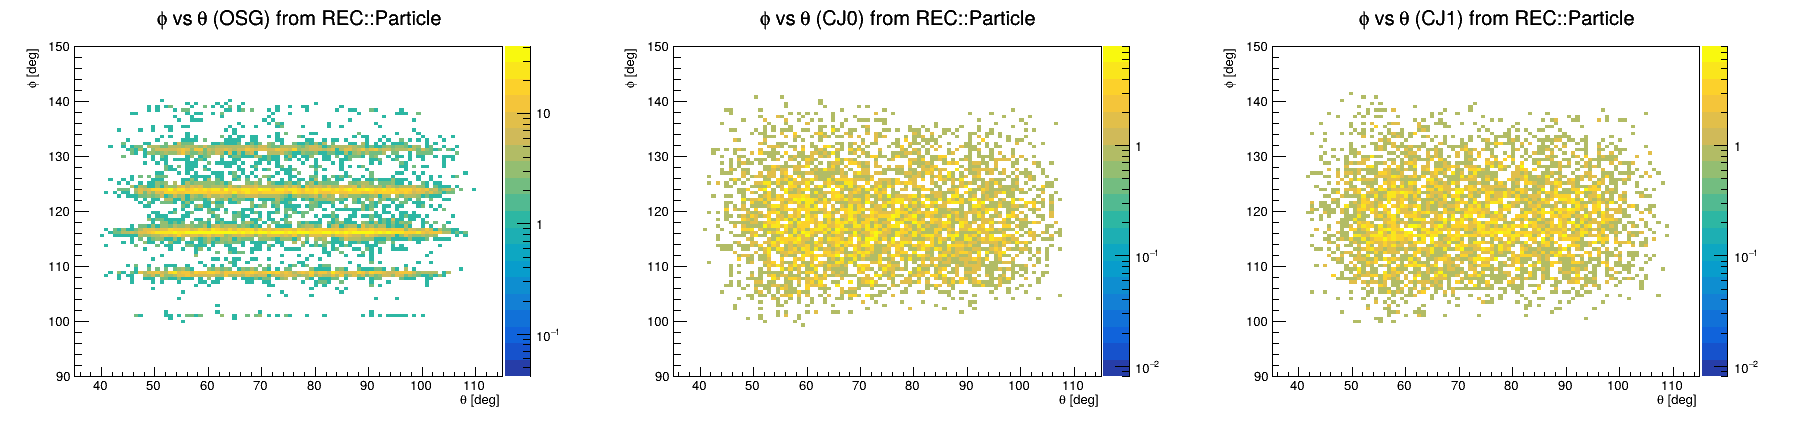
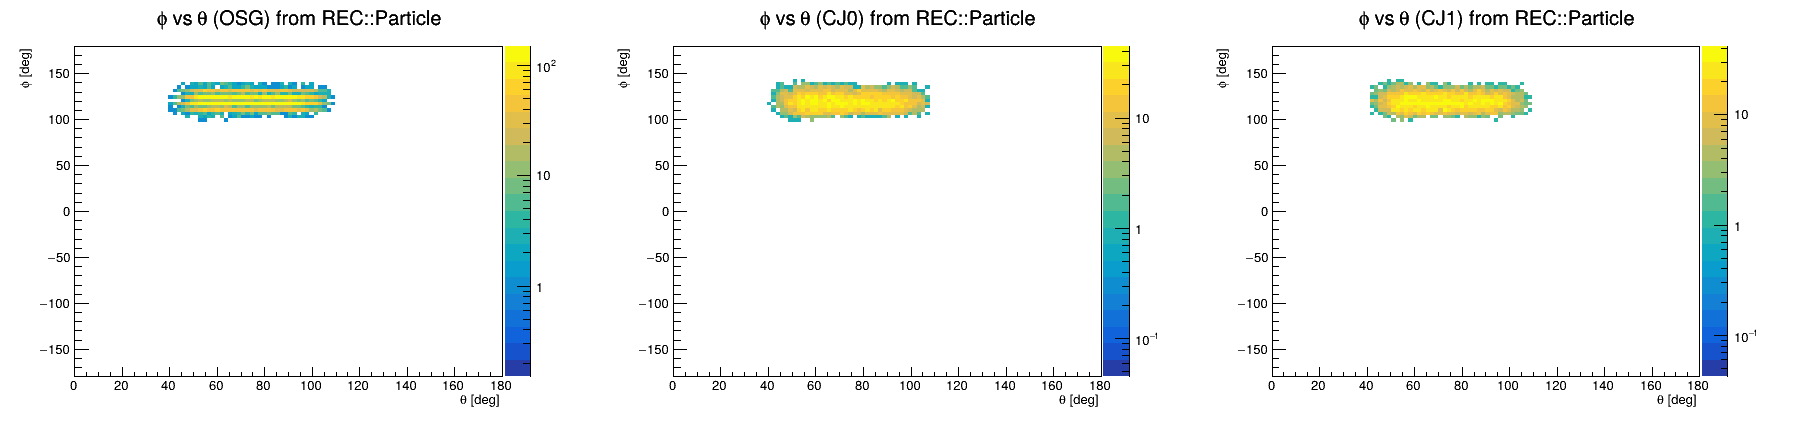
💄 Update limits of histograms

diff --git a/compare_cnd_versions.C b/compare_cnd_versions.C
@@ -93,27 +93,27 @@ struct Hists
 Hists book_hists(const char *tag)
 {
     Hists h;
-    h.hP = new TH1F(TString::Format("hP_%s", tag), TString::Format("Neutron p (%s) from REC::Particle;p [GeV];Counts", tag), 100, 0, 1.3);
-    h.hTheta = new TH1F(TString::Format("hTh_%s", tag), TString::Format("Neutron #theta (%s) from REC::Particle;#theta [deg];Counts", tag), 100, 35, 115);
-    h.hPhi = new TH1F(TString::Format("hPhi_%s", tag), TString::Format("Neutron #phi (%s) from REC::Particle;#phi [deg];Counts", tag), 100, 90, 150);
+    h.hP = new TH1F(TString::Format("hP_%s", tag), TString::Format("Neutron p (%s) from REC::Particle;p [GeV];Counts", tag), 100, 0, 5);
+    h.hTheta = new TH1F(TString::Format("hTh_%s", tag), TString::Format("Neutron #theta (%s) from REC::Particle;#theta [deg];Counts", tag), 100, 0, 180);
+    h.hPhi = new TH1F(TString::Format("hPhi_%s", tag), TString::Format("Neutron #phi (%s) from REC::Particle;#phi [deg];Counts", tag), 100, -180, 180);
 
     h.hEnergy_CND = new TH1F(TString::Format("hECND_%s", tag), TString::Format("Neutron E (%s) from CND-hit;E [GeV];Counts", tag), 100, 0, 12);
     h.hTheta_CND = new TH1F(TString::Format("hThCND_%s", tag), TString::Format("Neutron #theta (%s) from CND-hit;#theta [deg];Counts", tag), 100, 0, 180);
-    h.hPhi_CND = new TH1F(TString::Format("hPhiCND_%s", tag), TString::Format("Neutron #phi (%s) from CND-hit;#phi [deg];Counts", tag), 100, 90, 150);
+    h.hPhi_CND = new TH1F(TString::Format("hPhiCND_%s", tag), TString::Format("Neutron #phi (%s) from CND-hit;#phi [deg];Counts", tag), 100, -180, 180);
 
-    h.hDTheta_CND = new TH1F(TString::Format("hDThCND_%s", tag), "#Delta#theta(CND-hit - particle);#Delta#theta [deg];Counts", 100, -180, 180);
+    h.hDTheta_CND = new TH1F(TString::Format("hDThCND_%s", tag), "#Delta#theta(CND-hit - particle);#Delta#theta [deg];Counts", 100, -30, 30);
     h.hDPhi_CND = new TH1F(TString::Format("hDPhCND_%s", tag), "#Delta#phi(CND-hit - particle);#Delta#phi [deg];Counts", 100, -180, 180);
 
     h.hPTheta = new TH2F(TString::Format("hPTh_%s", tag), TString::Format("#theta vs p (%s) from REC::Particle;p [GeV];#theta [deg]", tag),
-                         100, 0, 1.3, 100, 35, 115);
+                         100, 0, 10, 100, 0, 180);
     h.hPPhi = new TH2F(TString::Format("hPPhi_%s", tag), TString::Format("#phi vs p (%s) from REC::Particle;p [GeV];#phi [deg]", tag),
-                       100, 0, 1.3, 100, 90, 150);
+                       100, 0, 10, 100, -180, 180);
     h.hThetaPhi = new TH2F(TString::Format("hThPhi_%s", tag), TString::Format("#phi vs #theta (%s) from REC::Particle;#theta [deg];#phi [deg]", tag),
-                           100, 35, 115, 100, 90, 150);
-
-    h.hPMC = new TH1F(TString::Format("hPMC_%s", tag), TString::Format("MC Neutron p (%s);p [GeV];Counts", tag), 100, 0, 1.3);
-    h.hThetaMC = new TH1F(TString::Format("hThMC_%s", tag), TString::Format("MC Neutron #theta (%s);#theta [deg];Counts", tag), 100, 35, 115);
-    h.hPhiMC = new TH1F(TString::Format("hPhiMC_%s", tag), TString::Format("MC Neutron #phi (%s);#phi [deg];Counts", tag), 100, 90, 150);
+                           100, 0, 180, 100, -180, 180);
+                           
+    h.hPMC = new TH1F(TString::Format("hPMC_%s", tag), TString::Format("MC Neutron p (%s);p [GeV];Counts", tag), 100, 0, 5);
+    h.hThetaMC = new TH1F(TString::Format("hThMC_%s", tag), TString::Format("MC Neutron #theta (%s);#theta [deg];Counts", tag), 100, 0, 180);
+    h.hPhiMC = new TH1F(TString::Format("hPhiMC_%s", tag), TString::Format("MC Neutron #phi (%s);#phi [deg];Counts", tag), 100, -180, 180);
 
     h.hDTheta_REC_MC = new TH1F(TString::Format("hDTh_REC_MC_%s", tag), "#Delta#theta(REC - MC);#Delta#theta [deg];Counts", 200, -12, 12);
     h.hDPhi_REC_MC = new TH1F(TString::Format("hDPh_REC_MC_%s", tag), "#Delta#phi(REC - MC);#Delta#phi [deg];Counts", 200, -15, 15);
@@ -535,166 +535,10 @@ void draw_overlay_1D_N(const std::vector<TH1 *> &h_in,
     leg->SetFillStyle(0);
 
     for (size_t i = 0; i < h.size(); ++i)
-        leg->AddEntry(h[i], labels[i], "l"); // use "f" only if you fill histograms
+        leg->AddEntry(h[i], labels[i], "f"); 
 
     leg->Draw();
 }
-
-// Helper: style and overlay 3 TH1s (optionally normalized)
-// void draw_overlay_1D_6h(TH1 *h1_in, TH1 *h2_in, TH1 *h3_in,
-//                         TH1 *h4_in, TH1 *h5_in, TH1 *h6_in,
-//                         const char *leg1, const char *leg2, const char *leg3,
-//                         const char *leg4, const char *leg5, const char *leg6,
-//                         bool normalize = true,
-//                         bool logy = true)
-// {
-//     gPad->Modified();
-//     gPad->Update();
-
-//     if (!h1_in || !h2_in || !h3_in || !h4_in || !h5_in || !h6_in)
-//         return;
-
-//     if (logy)
-//         gPad->SetLogy();
-
-//     // Clone so normalization does not permanently change original histograms
-//     auto *h1 = (TH1 *)h1_in->Clone(Form("%s_clone1", h1_in->GetName()));
-//     auto *h2 = (TH1 *)h2_in->Clone(Form("%s_clone2", h2_in->GetName()));
-//     auto *h3 = (TH1 *)h3_in->Clone(Form("%s_clone3", h3_in->GetName()));
-//     auto *h4 = (TH1 *)h4_in->Clone(Form("%s_clone4", h4_in->GetName()));
-//     auto *h5 = (TH1 *)h5_in->Clone(Form("%s_clone5", h5_in->GetName()));
-//     auto *h6 = (TH1 *)h6_in->Clone(Form("%s_clone6", h6_in->GetName()));
-
-//     h1->SetDirectory(nullptr);
-//     h2->SetDirectory(nullptr);
-//     h3->SetDirectory(nullptr);
-//     h4->SetDirectory(nullptr);
-//     h5->SetDirectory(nullptr);
-//     h6->SetDirectory(nullptr);
-
-//     if (normalize)
-//     {
-//         if (h1->Integral(0, h1->GetNbinsX() + 1) > 0)
-//             h1->Scale(1.0 / h1->Integral(0, h1->GetNbinsX() + 1));
-//         if (h2->Integral(0, h2->GetNbinsX() + 1) > 0)
-//             h2->Scale(1.0 / h2->Integral(0, h2->GetNbinsX() + 1));
-//         if (h3->Integral(0, h3->GetNbinsX() + 1) > 0)
-//             h3->Scale(1.0 / h3->Integral(0, h3->GetNbinsX() + 1));
-//         if (h4->Integral(0, h4->GetNbinsX() + 1) > 0)
-//             h4->Scale(1.0 / h4->Integral(0, h4->GetNbinsX() + 1));
-//         if (h5->Integral(0, h5->GetNbinsX() + 1) > 0)
-//             h5->Scale(1.0 / h5->Integral(0, h5->GetNbinsX() + 1));
-//         if (h6->Integral(0, h6->GetNbinsX() + 1) > 0)
-//             h6->Scale(1.0 / h6->Integral(0, h6->GetNbinsX() + 1));
-//         h1->GetYaxis()->SetTitle("Normalized counts");
-//     }
-
-//     h1->SetLineColor(kRed);
-//     h2->SetLineColor(kBlue);
-//     h3->SetLineColor(kMagenta + 1);
-//     h4->SetLineColor(kGreen + 2);
-//     h5->SetLineColor(kOrange - 3);
-//     h6->SetLineColor(kMagenta - 8);
-
-//     h1->SetLineWidth(2);
-//     h2->SetLineWidth(2);
-//     h3->SetLineWidth(2);
-//     h4->SetLineWidth(2);
-//     h5->SetLineWidth(2);
-//     h6->SetLineWidth(2);
-
-//     double m = std::max({h1->GetMaximum(), h2->GetMaximum(), h3->GetMaximum(),
-//                          h4->GetMaximum(), h5->GetMaximum(), h6->GetMaximum()});
-
-//     if (logy)
-//     {
-//         h1->SetMaximum(10 * m);
-//         // h1->SetMinimum(1e-12);
-//     }
-//     else
-//     {
-//         h1->SetMaximum(2.5 * m);
-//     }
-
-//     h1->Draw("hist");
-//     h2->Draw("hist same");
-//     h3->Draw("hist same");
-//     h4->Draw("hist same");
-//     h5->Draw("hist same");
-//     h6->Draw("hist same");
-
-//     auto *leg = new TLegend(0.12, 0.75, 0.83, 0.90);
-//     leg->SetNColumns(2);
-//     leg->SetBorderSize(0);
-//     leg->SetFillStyle(0);
-//     leg->AddEntry(h1, leg1, "f");
-//     leg->AddEntry(h4, leg4, "f");
-//     leg->AddEntry(h2, leg2, "f");
-//     leg->AddEntry(h5, leg5, "f");
-//     leg->AddEntry(h3, leg3, "f");
-//     leg->AddEntry(h6, leg6, "f");
-//     leg->Draw();
-// }
-
-// void draw_overlay_1D(TH1 *h1_in, TH1 *h2_in, TH1 *h3_in,
-//                      const char *leg1, const char *leg2, const char *leg3,
-//                      bool normalize = true,
-//                      bool logy = true)
-// {
-//     gPad->Modified();
-//     gPad->Update();
-
-//     if (!h1_in || !h2_in || !h3_in)
-//         return;
-
-//     if (logy)
-//         gPad->SetLogy();
-
-//     // Clone so normalization does not permanently change original histograms
-//     auto *h1 = (TH1 *)h1_in->Clone(Form("%s_clone1", h1_in->GetName()));
-//     auto *h2 = (TH1 *)h2_in->Clone(Form("%s_clone2", h2_in->GetName()));
-//     auto *h3 = (TH1 *)h3_in->Clone(Form("%s_clone3", h3_in->GetName()));
-
-//     h1->SetDirectory(nullptr);
-//     h2->SetDirectory(nullptr);
-//     h3->SetDirectory(nullptr);
-
-//     if (normalize)
-//     {
-//         if (h1->Integral(0, h1->GetNbinsX() + 1) > 0)
-//             h1->Scale(1.0 / h1->Integral(0, h1->GetNbinsX() + 1));
-//         if (h2->Integral(0, h2->GetNbinsX() + 1) > 0)
-//             h2->Scale(1.0 / h2->Integral(0, h2->GetNbinsX() + 1));
-//         if (h3->Integral(0, h3->GetNbinsX() + 1) > 0)
-//             h3->Scale(1.0 / h3->Integral(0, h3->GetNbinsX() + 1));
-//         h1->GetYaxis()->SetTitle("Normalized counts");
-//     }
-
-//     h1->SetLineColor(kRed);
-//     h2->SetLineColor(kBlue);
-//     h3->SetLineColor(kGreen + 2);
-
-//     h1->SetLineWidth(2);
-//     h2->SetLineWidth(2);
-//     h3->SetLineWidth(2);
-
-//     double m = std::max({h1->GetMaximum(), h2->GetMaximum(), h3->GetMaximum()});
-
-//     h1->SetMaximum(2.5 * m);
-
-//     h1->Draw("hist");
-//     h2->Draw("hist same");
-//     h3->Draw("hist same");
-
-//     auto *leg = new TLegend(0.15, 0.72, 0.35, 0.90);
-//     // leg->SetNColumns(2);
-//     leg->SetBorderSize(0);
-//     leg->SetFillStyle(0);
-//     leg->AddEntry(h1, leg1, "f");
-//     leg->AddEntry(h2, leg2, "f");
-//     leg->AddEntry(h3, leg3, "f");
-//     leg->Draw();
-// }
 
 // Helper: draw 3 TH2 side-by-side
 void draw_triptych_2D(TH2 *h1_in, TH2 *h2_in, TH2 *h3_in,
@@ -788,11 +632,11 @@ void compare_cnd_versions(int maxEvents = 300000)
         c->Divide(3, 1);
 
         c->cd(1);
-        draw_overlay_1D_6h(hOSG.hP, hCJ0.hP, hCJ1.hP, hOSG.hPMC, hCJ0.hPMC, hCJ1.hPMC, "OSG REC::Particle", "CJ0 REC::Particle", "CJ1 REC::Particle", "OSG MC::Particle", "CJ0 MC::Particle", "CJ1 MC::Particle", /*normalize =*/false, /*logy =*/true);
+        draw_overlay_1D_N({hOSG.hP, hCJ0.hP, hCJ1.hP, hOSG.hPMC, hCJ0.hPMC, hCJ1.hPMC}, {"OSG REC::Particle", "CJ0 REC::Particle", "CJ1 REC::Particle", "OSG MC::Particle", "CJ0 MC::Particle", "CJ1 MC::Particle"}, /*normalize =*/false, /*logy =*/true, /*legend box*/ 0.12,0.75,0.83,0.90, /*ncols=*/2);
         c->cd(2);
-        draw_overlay_1D_6h(hOSG.hTheta, hCJ0.hTheta, hCJ1.hTheta, hOSG.hThetaMC, hCJ0.hThetaMC, hCJ1.hThetaMC, "OSG REC::Particle", "CJ0 REC::Particle", "CJ1 REC::Particle", "OSG MC::Particle", "CJ0 MC::Particle", "CJ1 MC::Particle", /*normalize =*/false, /*logy =*/true);
+        draw_overlay_1D_N({hOSG.hTheta, hCJ0.hTheta, hCJ1.hTheta, hOSG.hThetaMC, hCJ0.hThetaMC, hCJ1.hThetaMC}, {"OSG REC::Particle", "CJ0 REC::Particle", "CJ1 REC::Particle", "OSG MC::Particle", "CJ0 MC::Particle", "CJ1 MC::Particle"}, /*normalize =*/false, /*logy =*/true, /*legend box*/ 0.12,0.75,0.83,0.90, /*ncols=*/2);
         c->cd(3);
-        draw_overlay_1D_6h(hOSG.hPhi, hCJ0.hPhi, hCJ1.hPhi, hOSG.hPhiMC, hCJ0.hPhiMC, hCJ1.hPhiMC, "OSG REC::Particle", "CJ0 REC::Particle", "CJ1 REC::Particle", "OSG MC::Particle", "CJ0 MC::Particle", "CJ1 MC::Particle", /*normalize =*/false, /*logy =*/true);
+        draw_overlay_1D_N({hOSG.hPhi, hCJ0.hPhi, hCJ1.hPhi, hOSG.hPhiMC, hCJ0.hPhiMC, hCJ1.hPhiMC}, {"OSG REC::Particle", "CJ0 REC::Particle", "CJ1 REC::Particle", "OSG MC::Particle", "CJ0 MC::Particle", "CJ1 MC::Particle"}, /*normalize =*/false, /*logy =*/true, /*legend box*/ 0.12,0.75,0.83,0.90, /*ncols=*/2);
         c->SaveAs("Histograms/cmp_RECParticle_neutrons_1D.png");
     }
 
@@ -804,11 +648,11 @@ void compare_cnd_versions(int maxEvents = 300000)
         c->Divide(3, 1);
 
         c->cd(1);
-        draw_overlay_1D(hOSG.hEnergy_CND, hCJ0.hEnergy_CND, hCJ1.hEnergy_CND, "OSG", "CJ0", "CJ1", /*normalize =*/false, /*logy =*/true);
+        draw_overlay_1D_N({hOSG.hEnergy_CND, hCJ0.hEnergy_CND, hCJ1.hEnergy_CND}, {"OSG", "CJ0", "CJ1"}, /*normalize =*/false, /*logy =*/true, /*legend box*/ 0.15,0.72,0.35,0.90, /*ncols=*/1);
         c->cd(2);
-        draw_overlay_1D(hOSG.hTheta_CND, hCJ0.hTheta_CND, hCJ1.hTheta_CND, "OSG", "CJ0", "CJ1", /*normalize =*/false, /*logy =*/true);
+        draw_overlay_1D_N({hOSG.hTheta_CND, hCJ0.hTheta_CND, hCJ1.hTheta_CND}, {"OSG", "CJ0", "CJ1"}, /*normalize =*/false, /*logy =*/true, /*legend box*/ 0.15,0.72,0.35,0.90, /*ncols=*/1);
         c->cd(3);
-        draw_overlay_1D(hOSG.hPhi_CND, hCJ0.hPhi_CND, hCJ1.hPhi_CND, "OSG", "CJ0", "CJ1", /*normalize =*/false, /*logy =*/true);
+        draw_overlay_1D_N({hOSG.hPhi_CND, hCJ0.hPhi_CND, hCJ1.hPhi_CND}, {"OSG", "CJ0", "CJ1"}, /*normalize =*/false, /*logy =*/true, /*legend box*/ 0.15,0.72,0.35,0.90, /*ncols=*/1);
         c->SaveAs("Histograms/cmp_CND_scint_1D.png");
     }
 
@@ -820,9 +664,9 @@ void compare_cnd_versions(int maxEvents = 300000)
         c->Divide(2, 1);
 
         c->cd(1);
-        draw_overlay_1D(hOSG.hDTheta_CND, hCJ0.hDTheta_CND, hCJ1.hDTheta_CND, "OSG", "CJ0", "CJ1", /*normalize =*/false, /*logy =*/true);
+        draw_overlay_1D_N({hOSG.hDTheta_CND, hCJ0.hDTheta_CND, hCJ1.hDTheta_CND}, {"OSG", "CJ0", "CJ1"}, /*normalize =*/false, /*logy =*/true, /*legend box*/ 0.15,0.72,0.35,0.90, /*ncols=*/1);
         c->cd(2);
-        draw_overlay_1D(hOSG.hDPhi_CND, hCJ0.hDPhi_CND, hCJ1.hDPhi_CND, "OSG", "CJ0", "CJ1", /*normalize =*/false, /*logy =*/true);
+        draw_overlay_1D_N({hOSG.hDPhi_CND, hCJ0.hDPhi_CND, hCJ1.hDPhi_CND}, {"OSG", "CJ0", "CJ1"}, /*normalize =*/false, /*logy =*/true, /*legend box*/ 0.15,0.72,0.35,0.90, /*ncols=*/1);
 
         c->SaveAs("Histograms/cmp_CND_residuals_1D.png");
     }
@@ -835,11 +679,11 @@ void compare_cnd_versions(int maxEvents = 300000)
         c->Divide(3, 1);
 
         c->cd(1);
-        draw_overlay_1D(hOSG.hDP_REC_MC, hCJ0.hDP_REC_MC, hCJ1.hDP_REC_MC, "OSG", "CJ0", "CJ1", /*normalize =*/false, /*logy =*/true);
+        draw_overlay_1D_N({hOSG.hDP_REC_MC, hCJ0.hDP_REC_MC, hCJ1.hDP_REC_MC}, {"OSG", "CJ0", "CJ1"}, /*normalize =*/false, /*logy =*/true, /*legend box*/ 0.15,0.72,0.35,0.90, /*ncols=*/1);
         c->cd(2);
-        draw_overlay_1D(hOSG.hDTheta_REC_MC, hCJ0.hDTheta_REC_MC, hCJ1.hDTheta_REC_MC, "OSG", "CJ0", "CJ1", /*normalize =*/false, /*logy =*/true);
+        draw_overlay_1D_N({hOSG.hDTheta_REC_MC, hCJ0.hDTheta_REC_MC, hCJ1.hDTheta_REC_MC}, {"OSG", "CJ0", "CJ1"}, /*normalize =*/false, /*logy =*/true, /*legend box*/ 0.15,0.72,0.35,0.90, /*ncols=*/1);
         c->cd(3);
-        draw_overlay_1D(hOSG.hDPhi_REC_MC, hCJ0.hDPhi_REC_MC, hCJ1.hDPhi_REC_MC, "OSG", "CJ0", "CJ1", /*normalize =*/false, /*logy =*/true);
+        draw_overlay_1D_N({hOSG.hDPhi_REC_MC, hCJ0.hDPhi_REC_MC, hCJ1.hDPhi_REC_MC}, {"OSG", "CJ0", "CJ1"}, /*normalize =*/false, /*logy =*/true, /*legend box*/ 0.15,0.72,0.35,0.90, /*ncols=*/1);
         c->SaveAs("Histograms/cmp_residuals_MC_1D.png");
     }
 
